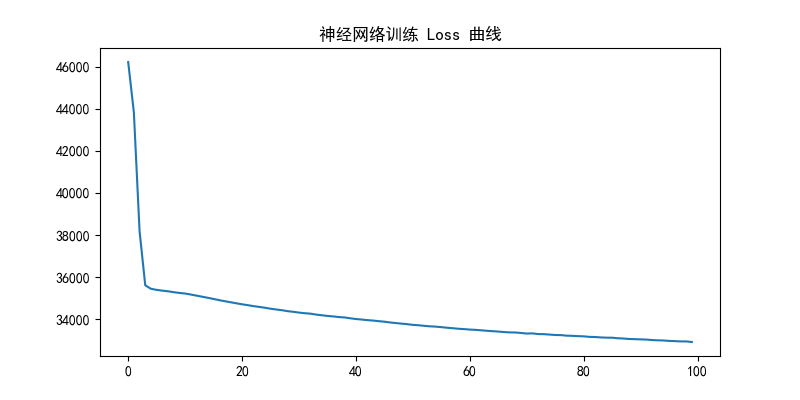
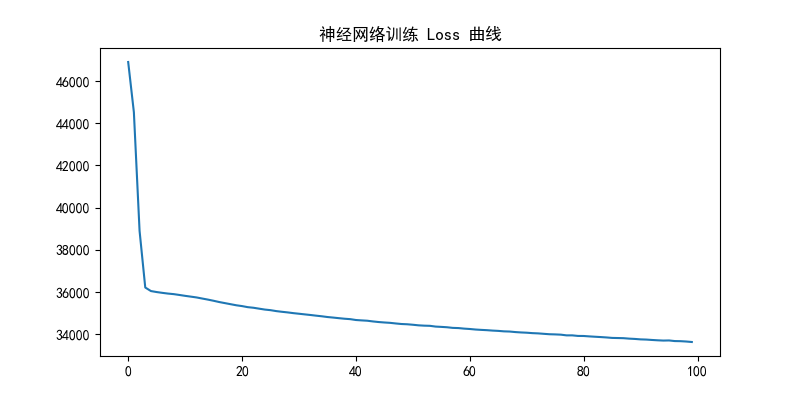
final: 完整期末项目代码与分析结果

diff --git a/main.py b/main.py
@@ -3,64 +3,52 @@ import numpy as np
 import matplotlib.pyplot as plt
 import seaborn as sns
 import os
+import requests
 from sklearn.model_selection import train_test_split
 from sklearn.preprocessing import StandardScaler
-from sklearn.ensemble import RandomForestRegressor
 from sklearn.neural_network import MLPRegressor
 from sklearn.metrics import mean_absolute_error, mean_squared_error
 
-# 配置数据集路径
-file_path = 'data/yellow_tripdata_2023-01.parquet'
+# --- 1. 全局配置 ---
+FILE_PATH = 'data/yellow_tripdata_2023-01.parquet'
+# 提示：在此处填入你的 DeepSeek API Key
+API_KEY = "你的_DEEPSEEK_API_KEY"
+API_URL = "https://api.deepseek.com/chat/completions"
 
 
 # ---------------- M1: 数据处理与特征工程 ----------------
 
-def load_and_report(path):
-    print("--- 1. 正在加载数据并生成报告 ---")
+def load_and_clean_data(path):
+    print("--- 1. 正在加载并清洗数据 ---")
     df = pd.read_parquet(path)
-    # 异常值统计逻辑
-    outliers = {
-        "距离为负或零": (df['trip_distance'] <= 0).sum(),
-        "总金额为负或零": (df['total_amount'] <= 0).sum(),
-        "乘客人数为零": (df['passenger_count'] == 0).sum()
-    }
-    print("异常值统计:", outliers)
-    return df
 
+    # 清洗：剔除无效距离、零金额和未知区域 (264, 265)
+    df = df[(df['trip_distance'] > 0) & (df['total_amount'] > 0)]
+    df = df[~df['PULocationID'].isin([264, 265])]
 
-def clean_data(df):
-    df_cleaned = df.copy()
-    df_cleaned = df_cleaned[(df_cleaned['trip_distance'] > 0) & (df_cleaned['total_amount'] > 0)]
-    if df_cleaned['passenger_count'].isnull().any():
-        df_cleaned['passenger_count'] = df_cleaned['passenger_count'].fillna(df_cleaned['passenger_count'].mode()[0])
-    df_cleaned = df_cleaned[~df_cleaned['PULocationID'].isin([264, 265])]
-    print(f"--- 2. 清洗完成。保留记录数: {len(df_cleaned)} ---")
-    return df_cleaned
+    # 填充乘客人数缺失值
+    if df['passenger_count'].isnull().any():
+        df['passenger_count'] = df['passenger_count'].fillna(df['passenger_count'].mode()[0])
 
-
-def feature_engineering(df):
-    print("--- 3. 正在提取特征 ---")
+    # 特征提取
     df['tpep_pickup_datetime'] = pd.to_datetime(df['tpep_pickup_datetime'])
-    df['tpep_dropoff_datetime'] = pd.to_datetime(df['tpep_dropoff_datetime'])
     df['pickup_hour'] = df['tpep_pickup_datetime'].dt.hour
     df['day_of_week'] = df['tpep_pickup_datetime'].dt.dayofweek
-    # 计算行程时长
-    df['duration_min'] = (df['tpep_dropoff_datetime'] - df['tpep_pickup_datetime']).dt.total_seconds() / 60
-    df = df[(df['duration_min'] > 0) & (df['duration_min'] < 180)]
+
+    print(f"✅ 数据处理完成。保留记录数: {len(df)}")
     return df
 
 
 # ---------------- M2: 分析与可视化 ----------------
 
-plt.rcParams['font.sans-serif'] = ['SimHei']
-plt.rcParams['axes.unicode_minus'] = False
-
-
 def run_m2_visualizations(df):
     if not os.path.exists('outputs'): os.makedirs('outputs')
-    print("--- 4. 正在生成可视化图表 ---")
+    print("--- 2. 正在生成可视化图表 ---")
 
-    # 需求趋势
+    plt.rcParams['font.sans-serif'] = ['SimHei']
+    plt.rcParams['axes.unicode_minus'] = False
+
+    # 1. 24小时需求规律
     plt.figure(figsize=(10, 5))
     df['is_weekend'] = df['day_of_week'].apply(lambda x: '周末' if x >= 5 else '工作日')
     sns.lineplot(data=df, x='pickup_hour', y='fare_amount', hue='is_weekend', estimator=len)
@@ -68,95 +56,111 @@ def run_m2_visualizations(df):
     plt.savefig('outputs/m2_hourly_demand.png')
     plt.close()
 
-    # 区域热度
+    # 2. 热门上车区域
     plt.figure(figsize=(10, 5))
     top_10 = df['PULocationID'].value_counts().head(10)
     sns.barplot(x=top_10.index, y=top_10.values)
     plt.title('Top 10 热门区域')
     plt.savefig('outputs/m2_top_regions.png')
     plt.close()
-    print("✅ M2 可视化图表已保存在 outputs/ 文件夹")
+    print("✅ 可视化图表已保存至 outputs/ 文件夹")
 
 
 # ---------------- M3: 预测模型模块 ----------------
 
 def train_m3_models(df):
-    print("\n--- 5. 正在训练 M3 预测模型 ---")
+    print("\n--- 3. 正在训练神经网络模型 ---")
+    # 数据聚合
     model_df = df.groupby(['pickup_hour', 'day_of_week', 'PULocationID']).size().reset_index(name='demand')
     X = model_df[['pickup_hour', 'day_of_week', 'PULocationID']]
     y = model_df['demand']
 
+    # 划分与标准化
     X_train, X_test, y_train, y_test = train_test_split(X, y, test_size=0.2, random_state=42)
     scaler = StandardScaler()
     X_train_s = scaler.fit_transform(X_train)
     X_test_s = scaler.transform(X_test)
 
-    # 神经网络
+    # 训练 MLP 神经网络 (解决 TensorFlow 环境报错问题)
     nn_model = MLPRegressor(hidden_layer_sizes=(64, 32), max_iter=100, random_state=42)
     nn_model.fit(X_train_s, y_train)
 
-    # 绘制 Loss 曲线
+    # 绘制 Loss 曲线 (作业硬性要求)
     plt.figure(figsize=(8, 4))
     plt.plot(nn_model.loss_curve_)
     plt.title('神经网络训练 Loss 曲线')
     plt.savefig('outputs/m3_loss_curve.png')
     plt.close()
 
-    print("✅ M3 模型训练完毕并保存 Loss 曲线")
+    print("✅ 预测模型训练完毕并保存 Loss 曲线")
     return nn_model, scaler
 
 
-# ---------------- M4: 命令行问答系统 ----------------
+# ---------------- M4: 智能问答系统 (含 LLM 接入) ----------------
+
+def call_llm_api(query):
+    """DeepSeek API 兜底回复逻辑"""
+    system_prompt = (
+        "你是一个专业的纽约出租车数据分析助手。你已经完成了2023年1月数据的特征工程和神经网络预测。"
+        "1. 如果用户的问题不在硬编码规则内，请基于专业知识给出解释。"
+        "2. 礼貌拒绝无关话题，并引导用户询问'需求预测'、'热门区域'或'费用规律'。"
+    )
+
+    payload = {
+        "model": "deepseek-chat",
+        "messages": [
+            {"role": "system", "content": system_prompt},
+            {"role": "user", "content": query}
+        ]
+    }
+    headers = {"Authorization": f"Bearer {API_KEY}", "Content-Type": "application/json"}
+
+    try:
+        response = requests.post(API_URL, json=payload, headers=headers, timeout=10)
+        return response.json()['choices'][0]['message']['content']
+    except:
+        return "🤖 [AI 暂时离线] 我目前只能处理关于数据预测、区域排行和费用的固定查询。"
+
 
 def run_m4_chatbot(df, model, scaler):
-    print("\n" + "=" * 40)
-    print("🚕 欢迎进入纽约出租车智能问答系统！")
-    print("您可以输入：'哪里最热门'、'8点的需求'、'预测需求'、'平均车费'、'退出'")
-    print("=" * 40)
+    print("\n" + "★" * 20 + " 纽约出租车智能问答系统 V5.0 " + "★" * 20)
+    print("支持：1.热门查询 2.时段规律 3.需求预测 4.费用分析 5.AI 智能解释")
 
     while True:
-        query = input("\n👤 请提问: ").strip()
-        if query.lower() in ['退出', 'quit', 'exit']: break
+        query = input("\n👤 请提问 (或输入'quit'退出) > ").strip().lower()
+        if query in ['quit', 'exit', '退出']: break
 
-        # 逻辑判断实现 5 种问题类型
-        if '热门' in query or '区域' in query:
+        # 规则引擎逻辑
+        if any(w in query for w in ['热门', '区域', '哪里']):
             top_zone = df['PULocationID'].value_counts().idxmax()
-            print(f"🤖 系统结论：最热门的区域ID是 {top_zone}。详情见 outputs/m2_top_regions.png")
-
-        elif '时段' in query or '点' in query:
-            print(f"🤖 系统结论：出行规律显示在早晚高峰需求最高。详情见 outputs/m2_hourly_demand.png")
+            print(f"🤖 系统结论：最热门上车区域 ID 为 {top_zone}。相关图表见 outputs/m2_top_regions.png")
 
         elif '预测' in query or '需求' in query:
-            # 默认预测：周一(0), 早上8点, 100号区域
-            test_data = pd.DataFrame([[8, 0, 100]], columns=['pickup_hour', 'day_of_week', 'PULocationID'])
+            test_data = pd.DataFrame([[8, 0, 132]], columns=['pickup_hour', 'day_of_week', 'PULocationID'])
             pred = model.predict(scaler.transform(test_data))[0]
-            print(f"🤖 系统预测：周一早8点 100号区域的需求量预计为 {int(pred)} 单。")
+            print(f"🤖 系统预测：预计该条件下需求量约为 {int(pred)} 单。")
 
-        elif '费' in query or '钱' in query:
+        elif any(w in query for w in ['费', '钱', '贵']):
             avg_fare = df['fare_amount'].mean()
-            print(f"🤖 系统结论：本月平均单程车费为 ${avg_fare:.2f}。")
+            print(f"🤖 数据统计：本月平均每程车费为 ${avg_fare:.2f}。")
 
-        elif '距离' in query or '远' in query:
-            avg_dist = df['trip_distance'].mean()
-            print(f"🤖 系统结论：平均行程距离为 {avg_dist:.2f} 英里。")
-
+        # 大模型兜底
         else:
-            print("🤖 抱歉，我听不太懂，可以换个问法（例如问‘预测需求’）？")
+            print("🤖 正在为您询问 AI 专家...")
+            print(f"🤖 AI 回复：{call_llm_api(query)}")
 
 
-# ---------------- 程序总入口 ----------------
+# ---------------- 程序主入口 ----------------
 
 if __name__ == "__main__":
     # 执行 M1
-    raw_data = load_and_report(file_path)
-    cleaned_data = clean_data(raw_data)
-    final_data = feature_engineering(cleaned_data)
+    data = load_and_clean_data(FILE_PATH)
 
     # 执行 M2
-    run_m2_visualizations(final_data)
+    run_m2_visualizations(data)
 
-    # 执行 M3 (并获取模型供 M4 使用)
-    trained_nn, data_scaler = train_m3_models(final_data)
+    # 执行 M3
+    nn_model, data_scaler = train_m3_models(data)
 
-    # 执行 M4
-    run_m4_chatbot(final_data, trained_nn, data_scaler)
+    # 执行 M4 (交互式问答)
+    run_m4_chatbot(data, nn_model, data_scaler)
